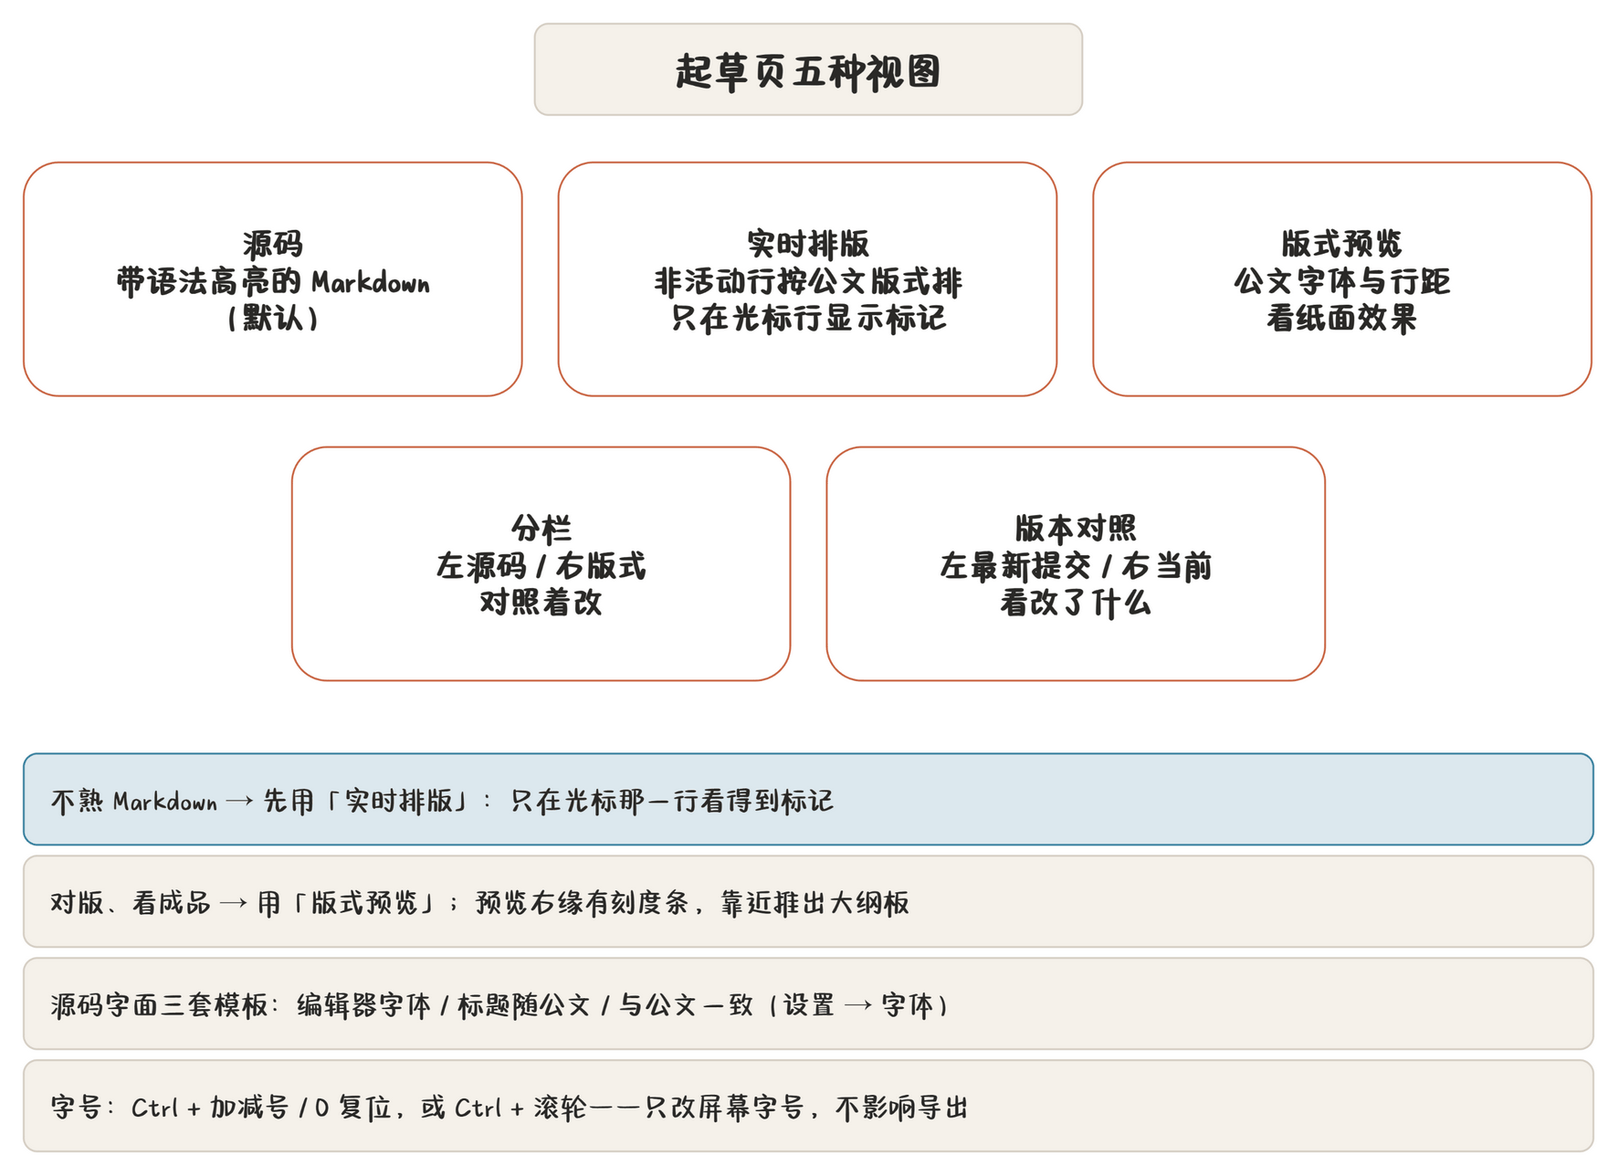
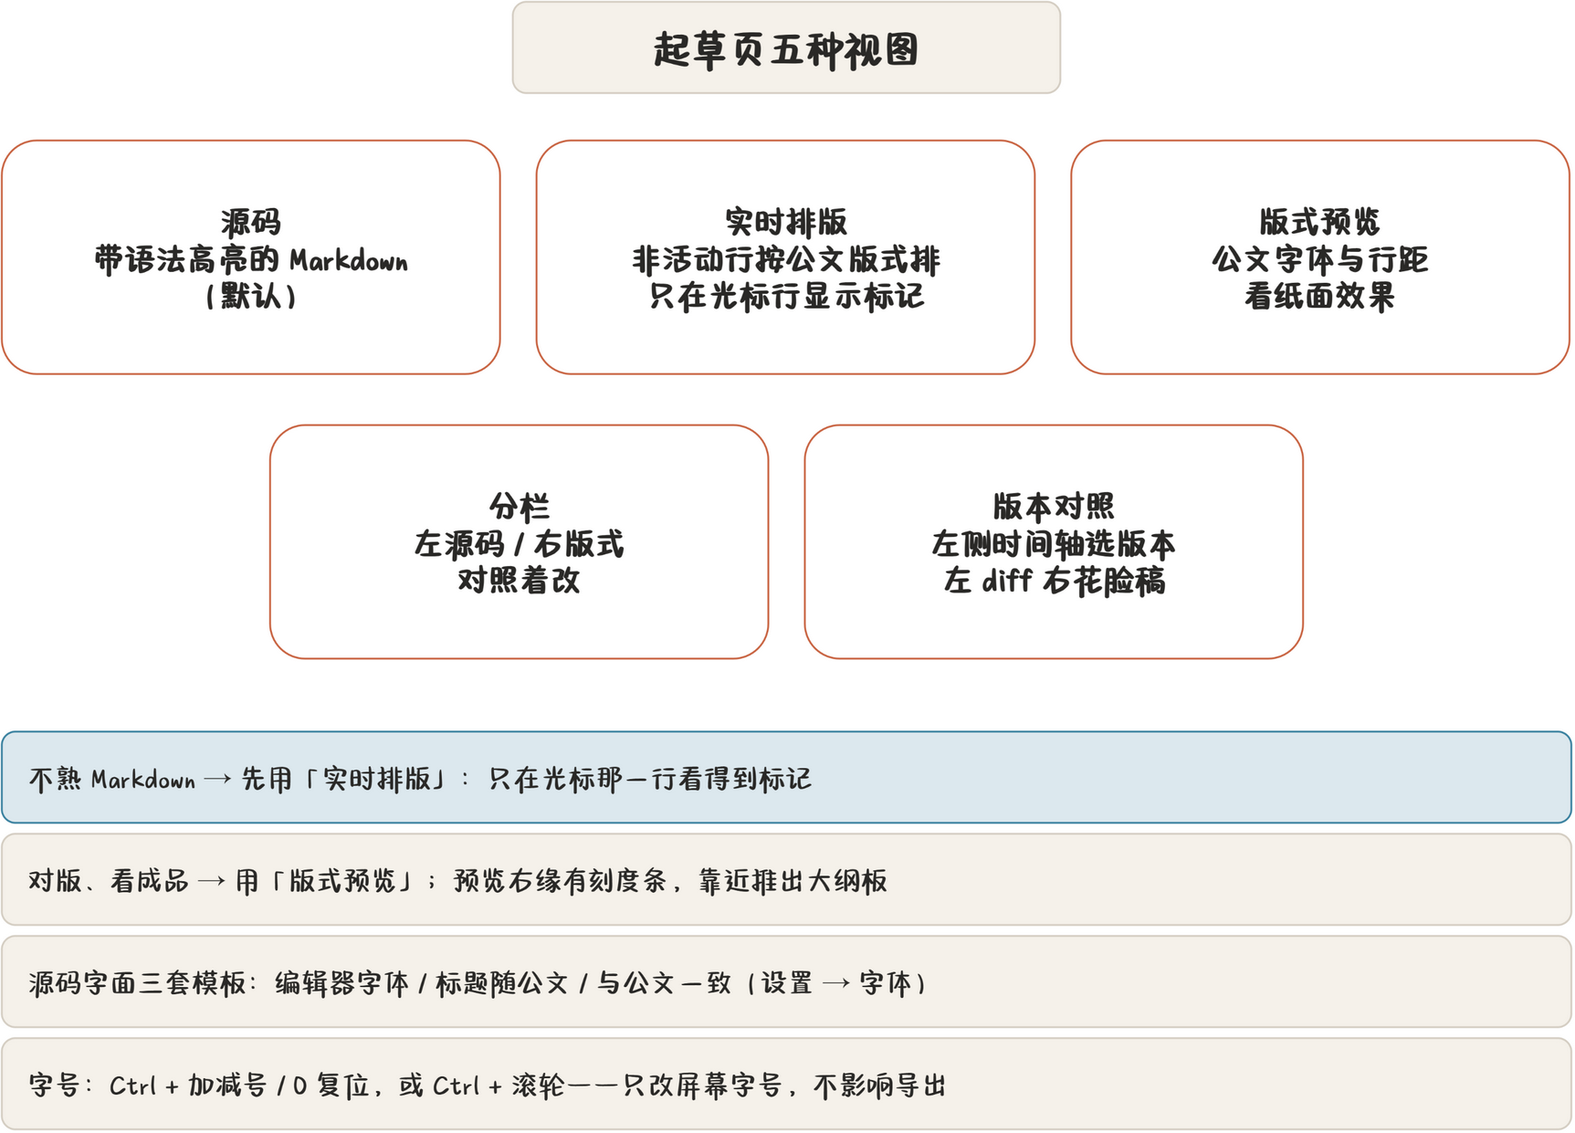
docs: 第 ④ 期文档同步（时间轴、需求 17 条取消、交接说明）
- 帮助手册：10-versions 版本历史抽屉一节改写为版本时间轴（含对比方式、
  载入编辑与三选确认）；02-ui、07-ribbon 同步右抽屉只剩审校提示；
  版面图与五种视图示意图重渲（gen.py 改文案 + draw.io CLI 导出）。
- version-diff-redesign：需求第 17 条标注「已取消（用户决定，2026-09）」，
  分期表第 ④ 期去掉「花脸稿自动归档」，状态头更新。
- version-diff-handoff：进度表、第 ④ 期交付了什么（代码地图 + 测试清单）、
  与方案的出入新增 13–16 条、已知的坑新增三条、下一步改为第 ⑤ 期与
  第 ④ 期人眼验收清单。

帮助截图 ui-versions.png 需重拍（时间轴未入镜），已在交接说明登记。

diff --git a/docs/version-diff-handoff.md b/docs/version-diff-handoff.md
@@ -11,7 +11,7 @@
 | ① | 视觉 diff 引擎 + PDF / Word 花脸稿导出 | **已完成**，已合入 `main` |
 | ② | 左 Markdown diff / 右花脸稿预览的界面、标记绘制、联动、打印预览 | **已完成**，已合入 `main`（含「公文要素就地标注」，见下文） |
 | ③ | 可编辑 diff + 逐块还原 | **已完成**（见「第 ③ 期交付了什么」）；已做一轮实测并修正（见「第 ③ 期测试后的修正」），人眼验收待做 |
-| ④ | 版本时间轴合并浏览界面；稿件管理对照窗改用同一视图；花脸稿自动归档 | 未开始 |
+| ④ | 版本时间轴合并浏览界面；稿件管理对照窗改用同一视图 | **已完成**（见「第 ④ 期交付了什么」）；需求第 17 条「花脸稿自动归档」经用户决定取消 |
 | ⑤ | AI 修订建议并入为待采纳块 | 未开始 |
 
 ## 第 ① 期交付了什么
@@ -227,6 +227,62 @@
   预览每帧整篇重排，是 `official_preview` 的既有行为（普通「公文预览」模式同样如此），
   不是本期引入的；长稿要再快得按可视页裁剪，见「下一步」。
 
+## 第 ④ 期交付了什么
+
+分支 `feat/version-timeline`，三个提交：抽出只读版本对组件（`40de94f`）、
+版本时间轴取代右侧抽屉（`fdc32c0`）、稿件管理对照窗改用同一组件（`df8af42`）。
+
+### 代码地图
+- `src/version_pair_view.rs`：共享只读「版本对照视图」组件。输入新旧两份
+  `diff::ContentSnapshot`（含 `DraftInput`）+ `UnitDisplay` / `NumberingConfig`，
+  画出「左只读统一 diff（`diff_view::unified_body_ui`）+ 要素变化卡片；
+  右花脸稿预览（`official_preview`，带要素标注）」，自带联动（点击互跳、
+  悬停高亮、F7 / Shift+F7、折叠未改动）。按 `(稿件 id, 旧版本号, 新版本号)`
+  缓存全部计算结果；历史版本不可变，算一次就够，同步算、无防抖。
+  缓存键里旧版本号是 `Option`：v1 的旧侧为空白稿。
+- `src/draft_page/timeline.rs`：时间轴的纯数据投影，不读库不碰 egui。
+  `timeline_rows(versions, selected, comparison, fixed_baseline)` 返回每行的
+  `target / selected / latest / 旧新版本号`，规则：工作区行永远在最上；
+  历史按版本号倒序；`Previous` 模式每行对直接上一版（v1 旧侧 None）；
+  `FixedBaseline` 模式对固定基准，**固定基准晚于或不存在的行退回上一版，
+  并用 `fixed_baseline_adjusted` 明示**，绝不把未来版本当旧版；
+  选中的版本已不存在时整体回落到工作区。纯函数，全部有单测。
+- `src/draft_page/version_diff.rs`：
+  - `version_diff_mode_ui` 先画可收起的 `Panel::left("version_diff_timeline")`
+    （`show_collapsible`，展开态在 `DraftDiffState.timeline.expanded`），
+    再按选中分流：工作区 → 原有可编辑 / 只读路径不变；历史版本 →
+    `history_version_pair_mode_ui`。
+  - `timeline_ui`：对比方式开关（上一版 / 固定基准 + 基准选择器）、
+    每行（版本号·名称可点选中、「最新」标记、提交时间、注释摘要、
+    「载入编辑」走 `request_version_switch`，有未提交修改照旧弹三选）。
+  - `history_version_pair_mode_ui`：从库取旧 / 新快照喂共享组件，
+    顶部有「历史版本对照」标头、固定基准回退提示与导出花脸稿 / 打印预览
+    （要素取新版快照的 `DraftInput`）。
+- 旧的右侧版本抽屉 `versions_drawer` 已删除（`versions.rs` 只剩版本切换 /
+  行数据 / 回退），`DraftAction::OpenVersionDiff` 是它唯一调用方，一并删除；
+  功能区「审校」「视图」分区和状态栏的「版本历史」按钮统一改为
+  「进版本对照模式并展开时间轴」（不是开关）。
+- `src/app/versioning.rs`：`manuscript_diff_ui` 改用共享组件，逻辑抽成自由函数
+  `manuscript_diff_ui_impl`（吃 `Option<&mut ManuscriptStore>` 即可单测）；
+  `VersionDiffState.view(DiffViewState)` 换成 `pair(VersionPairViewState)`。
+  「从 vA 到 vB」选择器保留，方向仍固定旧→新。配置版对照不动；
+  AI 工作台的 `diff_view::manuscript_diff_ui` 本期不动（第 ⑤ 期）。
+
+### 测试（不许删，只许加）
+- `version_pair_view::tests::historical_pair_view_draws_both_read_only_panes_and_links_every_change`：
+  真 egui 画一对历史版本，两栏出字、每处正文变更有预览落点、F7 首尾循环、
+  敲字不改两侧快照。
+- `draft_page::timeline::tests`：行数据纯函数（倒序、最新标记、工作区在首、
+  上一版 / 固定基准两模式的对比对、v1 旧侧为空、固定基准晚于目标时回退并明示）。
+- `draft_page::version_diff::tests` 新增三条：
+  `timeline_selection_switches_between_readonly_pair_and_editable_view`
+  （点时间轴历史版本进只读视图、点「当前未提交」回可编辑视图、只读视图的
+  键盘输入不进正文）、`timeline_first_version_compares_against_a_blank_base`
+  （v1 对空白稿）、`timeline_load_button_prompts_before_discarding_unsaved_edits`
+  （有未提交修改时「载入编辑」弹三选确认）。
+- `app::versioning::tests::manuscript_diff_window_draws_the_shared_readonly_pair_view`：
+  内存库 + 真 egui 一帧冒烟，两栏出字、哨兵不漏、敲字不改库。
+
 ## 与方案的出入（有意为之，接手时别当 bug 改回去）
 1. **方案 4.3 说三个消费方直接读 `RedlineOverlay`，实际导出走的是「overlay → 带哨兵的 Markdown
    → 原有导出器」**。好处是花脸稿与定稿走同一条排版链路，版式天然一致。
@@ -264,6 +320,19 @@
     `reporting_leaders`，与函稿主送同属一个版位，标注一并覆盖。
 12. （第 ② 期要素标注）**联合发文落款的发文单位表、红头呈批件承办区不在本期**（见「遗留」）。
     联合发文的成文日期（压在主单位列下的那一行）照常标注。
+13. （第 ④ 期）**需求第 17 条「花脸稿自动留档」取消**（用户决定，2026-09）：
+    不新增数据库表、不改导出流程；方案文档第 17 条与分期表已标注。
+14. （第 ④ 期）**时间轴选中靠标题行的显式 `Sense::click` 标签，不是「点卡片任意处」**：
+    egui 的 `Frame` / `Ui` 背景响应只感应悬停，`response.clicked()` 永远 false；
+    子级 label 默认也会吃掉点击。所以每行是「点标题（vN · 名称）选中，
+    点按钮载入」，卡片空白处无响应。
+15. （第 ④ 期）**历史版本对照忽略组件返回的双击定位**（`edit_source`）：
+    历史内容与工作区正文不对应，跳源码会落到无关位置。只读稿件的工作区
+    对照仍保留双击跳源码。
+16. （第 ④ 期）**「固定基准」只作用于历史版本行的对比**；工作区行的基准仍是
+    工具栏「基准」选择器（`DraftDiffState.base`，默认最新版），两者不混用。
+    固定基准晚于所选历史版本时，该行退回与上一版比较并在界面明示，不偷偷
+    把未来版本当旧版。
 
 ## 已知的坑
 - **xeCJKfntef 的标注宏（`\GwDel` / `\GwAdd`）里面，字体切换只作用到第一个字。**
@@ -326,6 +395,15 @@
   2. 写个临时测试，调 `redline::build` + `export::write_tex_for_kind` 把 `.tex` 写到临时目录；
   3. 把 `.cls` 里的字体名替换成本机有的字体后执行 `xelatex`。
   - 空 `DraftInput` 会让 `\makeletter` 报 “There's no line here to end”，这是版记要素为空导致的，与花脸稿无关。
+- （第 ④ 期）**egui 的 `Frame::show` / `Ui` 背景 `response.clicked()` 永远为 false**
+  （背景只感应悬停），「点整块卡片选中」必须用显式 `ui.add(Label::sense(click))`
+  或 `ui.interact`。`ui.interact` 后画的内容在它下面、会被它抢走点击，
+  想保留卡片内按钮就别用覆盖层方案。
+- （第 ④ 期）`Option<&mut ManuscriptStore>` 在自由函数里多次取记录：
+  参数要写 `mut store`，且用 `store.as_mut()`（`as_ref()` 借成 `&&mut`，
+  调不了 `&mut self` 的方法）。
+- （第 ④ 期）`tabs.rs` 等旧文件是 CRLF；用脚本批量改它们时留意行尾，
+  别整文件刷成 LF（`git diff` 会炸）。
 
 ## 第 ③ 期审查后的修正
 
@@ -391,21 +469,27 @@
 
 ## 下一步
 
-1. **第 ③ 期人眼验收**：长稿边打字边看（右栏不卡、左栏不跳），空隙里的旧行、绿底、
-   还原按钮、新增空行「（空行）」标签的观感，打印预览的 PDF 与右栏一致；删除线高度与跳过
-   标点、新增框在样式切换处约 0.4–1.6pt 的断缝（见「已知的坑」）。
-2. **人眼验收第 ② 期要素标注**：进对照模式看版头 / 版记要素处的红删除线与蓝框，
+1. **第 ⑤ 期**：AI 修订建议并入为待采纳块（审校建议在 diff 中采纳 / 拒绝，
+   三条红线不变：`ai_guard` / `validator` / `proofread` 闸门照过）。
+   AI 工作台的 `diff_view::manuscript_diff_ui` 届时一并评估去留。
+2. **第 ④ 期人眼验收**：时间轴的收起 / 展开动画与拖拽宽度；点历史版本时
+   两栏滚回顶部；固定基准回退提示的观感；稿件管理对照窗与起草页时间轴
+   的联动观感是否一致；长稿在时间轴间来回切换的流畅度（每对版本只算一次）。
+3. **第 ③ 期人眼验收**：长稿边打字边看（右栏不卡、左栏不跳），空隙里的旧行、
+   绿底、还原按钮、新增空行「（空行）」标签的观感，打印预览的 PDF 与右栏一致；
+   删除线高度与跳过标点、新增框在样式切换处约 0.4–1.6pt 的断缝（见「已知的坑」）。
+4. **人眼验收第 ② 期要素标注**：进对照模式看版头 / 版记要素处的红删除线与蓝框，
    与「打印预览」PDF 对照，包含「旧值存在、新值清空」时保留下来的删除线；
    重点看框线贴字、红头字距、红头呈批件落款与日期的相对位置（见「已知的坑」）。
-3. **要素标注的遗留项**：
+5. **要素标注的遗留项**：
    - 发文单位（红头机关标志）不做（本期指定范围之外）；改了发文单位只在左栏「要素变化」卡片可见。
    - 联合发文模式 1 落款表里的发文单位（按列排的多单位）不标；承办区（承办单位 / 联系人 / 电话）不标。
-4. 长稿右栏预览按可视页裁剪（2000 段每帧约 15ms）。
-5. 人眼核对预览里的标记位置（见「已知的坑」），必要时微调 `marks.rs` 常量。
-6. `highlight::tests::swapping_light_and_dark_relayouts_against_the_rebuilt_font_atlas` 全量并行跑时
+6. 长稿右栏预览按可视页裁剪（2000 段每帧约 15ms）。
+7. 人眼核对预览里的标记位置（见「已知的坑」），必要时微调 `marks.rs` 常量。
+8. `highlight::tests::swapping_light_and_dark_relayouts_against_the_rebuilt_font_atlas` 全量并行跑时
    偶发失败（本机约三次一次），单独跑必过；值得单独查一下共享字体图集的问题。
-7. 第 ④ 期：版本时间轴合并浏览界面；稿件管理对照窗改用同一视图（只读路径已有
-   `unified_body_ui`）；花脸稿自动归档。
+9. 帮助手册截图 `docs/help/images/ui-versions.png` 需要重拍（时间轴未入镜），
+   示意图 `diag-layout.png` / `diag-editor-views.png` 已随第 ④ 期重渲。
 
 ## 第 ③ 期实施指南：可编辑 diff + 逐块还原
 

diff --git a/docs/help/10-versions.md b/docs/help/10-versions.md
@@ -12,20 +12,23 @@
 
 提交版本有两个范围：**稿件版**（正文与要素）与**配置版**（词库、提示词等设置）。在版本提交窗里选范围、填名称与备注。默认名称自动起（如「第 N 版」），可改。
 
-## 版本历史抽屉
+## 版本时间轴
 
-右下状态栏点「历史」开版本历史抽屉：
+版本对照模式左侧有一条**版本时间轴**（可收起）。功能区「视图」或右下状态栏点「版本历史」，会直接进入版本对照模式并展开时间轴：
 
-- 列出所有已提交版本，按版本号倒序；
-- 每条显示版本号、名称、备注、时间；
-- 悬停显示改动摘要（字数增减、命中项变化）；
-- 可在此**载入**某一版、**回退基准版**、发起**版本对照**。
+- 最上面是「**当前未提交**」，下面按版本号**倒序**列出各版；
+- 每行显示版本号、名称、提交时间、备注摘要，最新版带「最新」标记；
+- 点「当前未提交」：就是平时的可编辑对照（基准选择器保留，默认最新版）；
+- 点某个历史版本：换成**只读**对照，看它相对**上一版**的变化；时间轴顶部的开关可切成「对比：固定基准」，看这一版相对某个固定基准版的累计改动（固定基准晚于所选版本时，那一行退回与上一版比）；
+- 每行有「**载入编辑**」：把那一版载入起草页继续改；当前内容有未提交修改时会先弹三选确认（提交为新版本后切换 / 丢弃修改并切换 / 取消）。
+
+标签栏上也有小标记：与最新已提交版本比，有未提交改动时空心圈变实心。
 
 标签栏上也有小标记：与最新已提交版本比，有未提交改动时空心圈变实心。
 
 ## 版本对照
 
-「版本对照」是起草页的**第五个视图图标**：左栏改字、右栏看花脸稿，不用弹窗。对照范围是任意两版——基准默认跟**最新已提交版本**走，提交一版之后自动换过去，也可在工具栏的「基准」下拉里选更早的版本，看从那一版至今累计改了什么。
+「版本对照」是起草页的**第五个视图图标**：左栏改字、右栏看花脸稿，不用弹窗。对照范围是任意两版——基准默认跟**最新已提交版本**走，提交一版之后自动换过去，也可在工具栏的「基准」下拉里选更早的版本，看从那一版至今累计改了什么。左侧的时间轴可以换成只看某个历史版本相对上一版的变化（见上一节）。
 
 ![版本对照：左栏是可编辑的统一 diff，右栏是花脸稿预览](images/ui-versions.png)
 
@@ -46,7 +49,7 @@
 
 工具栏其余项：`共 N 处变更`、`第 X / N 块`、**回退到基准版**（二次确认，用基准版覆盖当前稿件）、**导出花脸稿**、**打印预览**（后台真编译一遍 PDF，在内置查看器里打开，不在导出目录留文件）。左栏顶部另有一张**要素变化**卡片，按字段列出单位、文号、日期等改动。
 
-**已发布 / 归档的稿件只读**：左栏换成只读的统一视图，多了「折叠未改动」，导航按逐行变更算（工具栏会写「处」而不是「块」）。
+**已发布 / 归档的稿件只读**：左栏换成只读的统一视图，多了「折叠未改动」，导航按逐行变更算（工具栏会写「处」而不是「块」）。在时间轴里点历史版本看的对照也是同一套只读视图；稿件管理页打开的「从 vA 到 vB」对照窗同样是它。
 
 ## 花脸稿
 
@@ -70,7 +73,7 @@
 
 ## 回退到版本
 
-版本历史里选某版 → 「回退」，二次确认后：
+稿件管理的版本历史里选某版 → 「回退」，二次确认后：
 
 1. 该版内容回到起草页（成为当前未提交内容）；
 2. **不清历史**——版本列表原样保留，随时可以再回退到别的版；
@@ -80,7 +83,7 @@
 
 ## 三选确认：载入版本
 
-在版本历史里点「载入」某个版本时，如果当前有未提交改动，弹三选：
+在版本时间轴或稿件管理里点「载入」某个版本时，如果当前有未提交改动，弹三选：
 
 1. **丢弃当前改动，载入该版**；
 2. **先提交当前版本，再载入**（推荐）；

diff --git a/docs/version-diff-redesign.md b/docs/version-diff-redesign.md
@@ -1,6 +1,7 @@
 # 版本变更与浏览界面改造方案（Zed 式 diff + 花脸稿预览）
 
-> 状态：第 ① 期已完成；第 ② 期除「公文要素就地标注」外已完成，均已合入 `main`；其余各期待实施。本文记录需求讨论的结论、设计要点、技术路线与分期计划；
+> 状态：第 ① ② ③ 期已完成并合入 `main`；第 ④ 期已完成（分支 `feat/version-timeline`，
+> 需求第 17 条「花脸稿自动归档」经用户决定取消）；第 ⑤ 期待实施。本文记录需求讨论的结论、设计要点、技术路线与分期计划；
 > 实施进度、与方案的出入和下一步见 `docs/version-diff-handoff.md`。
 
 ## 一、核心思路：两层 diff
@@ -49,7 +50,8 @@
     「代码 diff + 花脸稿」视图里看它相对上一版 / 基准的变化。历史版本只读，只有「当前未提交」可编辑。
     稿件管理的对照窗改为以只读方式打开这套视图，不再单独维护 `diff_view` 的分栏布局。
 17. **花脸稿自动留档**：导出的 PDF 存进稿件附件（`PdfAttachment`），文件名带「v3→当前」与日期；
-    时间轴上标出「在此处出过花脸稿」。
+   时间轴上标出「在此处出过花脸稿」。**已取消（用户决定，2026-09）**：不新增数据库表，
+   不改导出流程，第 ④ 期不做。
 
 ### 联动
 18. **点击互跳 + 悬停高亮**：点预览里的某处标记，左侧定位到对应变更块；悬停任一侧，另一侧同一处
@@ -138,7 +140,7 @@
 | ① | 视觉 diff 引擎（渲染文本模型、词级 + 归并、移动识别、要素、编号、表格、公式）+ PDF/Word 导出切到 `RedlineOverlay`，新样式（红删除线 / 蓝框），去掉说明页，覆盖研究报告 | 现有「导出花脸稿」入口产出新效果；一致性测试与样例回归通过 |
 | ② | 左右分栏 UI：左侧统一 diff（先只读）、右侧预览画标记、点击互跳 / 悬停高亮、统一导航、打印预览 | 起草页的版本对照换成新界面 |
 | ③ | 可编辑 diff + 逐块还原 | 在 diff 里直接改字、还原可撤销 |
-| ④ | 版本时间轴合并浏览界面；稿件管理对照窗改用同一视图；花脸稿自动归档 | 旧的 `diff_view` 分栏与版本抽屉下线 |
+| ④ | 版本时间轴合并浏览界面；稿件管理对照窗改用同一视图（需求第 17 条「花脸稿自动归档」已取消，见第二节） | 旧的 `diff_view` 分栏与版本抽屉下线 |
 | ⑤ | AI 修订建议并入为待采纳块 | 审校建议在 diff 中采纳 / 拒绝，闸门不变 |
 
 ## 七、讨论中补充考虑到的点（设计清单）

diff --git a/docs/help/02-ui.md b/docs/help/02-ui.md
@@ -10,8 +10,8 @@
 | 标签栏 | 标题栏下 | 已打开的稿件、导航页、PDF 混排在同一条标签栏上 |
 | 功能区 | 标签栏下 | 开始 / 插入 / 研报 / 格式 / 审校 / 视图 / 输出 七个分区 |
 | 左栏 + 中央 | 主体左侧与中间 | 左边文档要素填报区，中央审校稿编辑与预览 |
-| 右抽屉 ×2 | 主体右侧 | 版本历史、审校提示，都可收起 |
-| 状态栏 | 最底 | 状态文案、审校提示计数、版本历史入口、输入法状态 |
+| 右抽屉 | 主体右侧 | 审校提示，可收起；版本历史已并入版本对照模式左侧的时间轴 |
+| 状态栏 | 最底 | 状态文案、审校提示计数、版本历史入口（进版本对照并展开时间轴）、输入法状态 |
 
 功能区第二行可以整体收起，收起后只剩分区卡标题，正文能多出一条工具栏的高度。
 
@@ -19,7 +19,7 @@
 
 ![起草页：中央是审校稿](images/ui-hero.png)
 
-打开一篇稿件后，中央是**审校稿**——你的 Markdown 正文就在这里写。左边是要素表单，右边是抽屉。
+打开一篇稿件后，中央是**审校稿**——你的 Markdown 正文就在这里写。左边是要素表单，右边是审校提示抽屉。版本历史不在右边：它在版本对照模式左侧的时间轴里（见 [版本、对照与花脸稿](chapter:10-versions)）。
 
 要素表单**默认收起**。这是有意的：打开稿件第一眼应该是满屏的稿子，而不是一堆输入框。要填要素时点功能区左端的开关展开。
 
